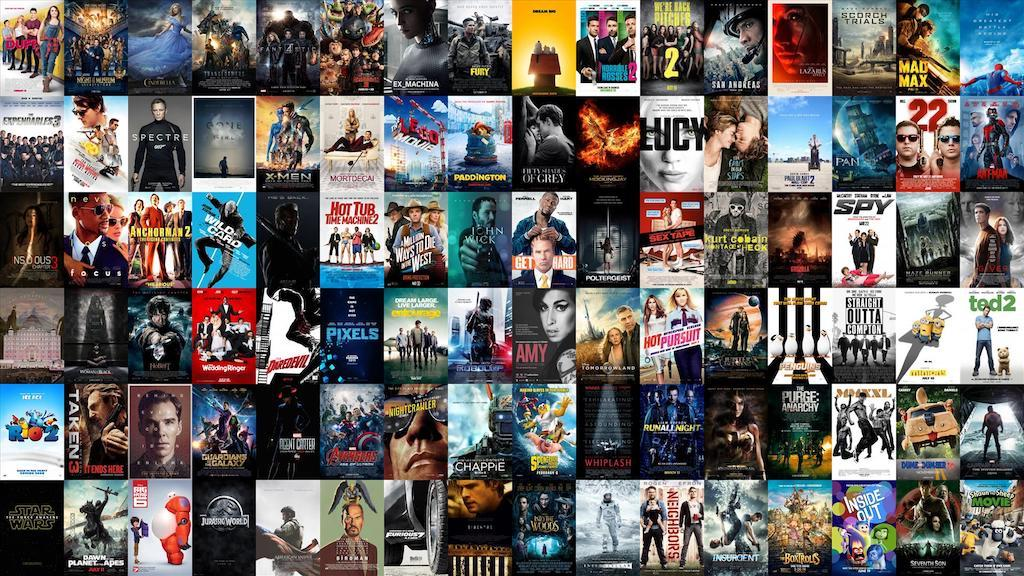
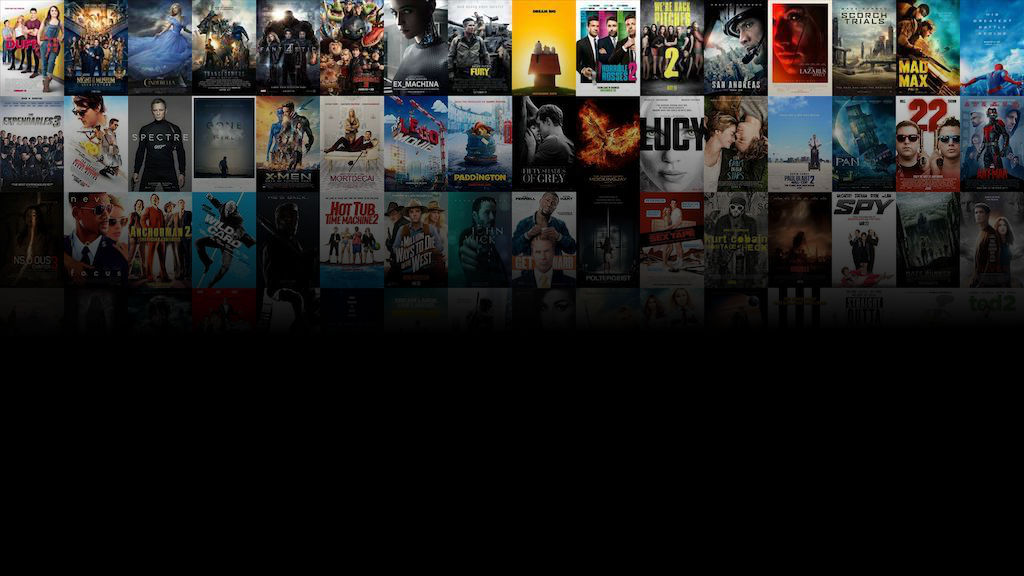
Tweaked background image and landing page styling.

diff --git a/project1/WebContent/style.css b/project1/WebContent/style.css
@@ -1,14 +1,28 @@
 body {
-	margin: 75px;
-	height: 200px;
-	line-height: 200px;
+	height: 100%;
+	margin: 0;
+	background-repeat: no-repeat;
+	background-attatchment: fixed;
+
+ 	background-image: url(background.jpg);
+	background-position: top;
+
+	color: white;
 	text-align: center;
-	background-image: url(background.jpg);
+	font-size: 100%;
 }
 
-.block {
+.title {
+	margin-top: 250px;
 	color: white;
-	background-color: black;
+}
+
+.title > h1 {
+	font-size: 4em;
+}
+
+.title--actions {
+	
 }
 
 .button {

diff --git a/project1/WebContent/index.html b/project1/WebContent/index.html
@@ -12,9 +12,11 @@
 	<title>fabflix</title>
 </head>
 <body>
-	<div class="block">
+	<div class="title">
 		<h1>Welcome to FabFlix</h1>
-		<a href="http://localhost:8080/project1/movielist" class="button">Top Rated Movies</a>
+	</div>
+	<div class="title--actions">
+		<a href="http://localhost:8080/project1/movielist" class="btn btn-danger">Top Rated Movies</a>
 	</div>
 </body>
 </html>
